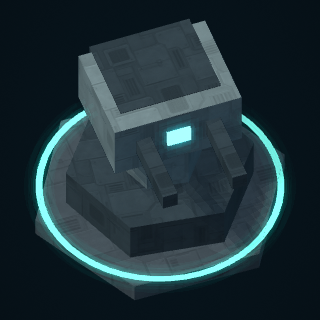
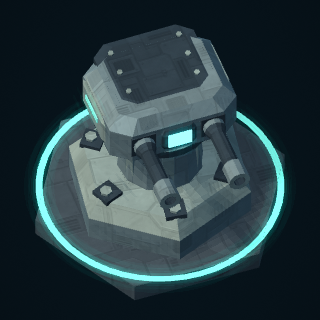
feat: detail Free Marches sentinel turret

Changed region(s): [[0.1875, 0.0625, 0.7812, 0.8125], [0.375, 0.0938, 0.4688, 0.125]]

diff --git a/src/renderer/geometry.js b/src/renderer/geometry.js
@@ -221,6 +221,82 @@
         }
         return out;
       },
+      // Sentinel: fixed hexagonal pedestal and independently aimed twin-gun assembly.
+      // Baked once; relative metal tints preserve team/ghost/construction rendering.
+      turretAssembly() {
+        const turretBase = [], turretHead = [], box = this.box(),
+          metal = [1, 1, 1], dark = [.38, .43, .49], edge = [1.28, 1.22, 1.13];
+        const part = (out, x, y, z, w, h, d, col, yaw = 0) => {
+          const cs = Math.cos(yaw), sn = Math.sin(yaw);
+          for (let i = 0; i < box.length; i += 27) {
+            const points = [];
+            for (let j = i; j < i + 27; j += 9) {
+              const px = box[j]*w, pz = box[j+2]*d;
+              points.push([x+px*cs+pz*sn, y+box[j+1]*h, z-px*sn+pz*cs]);
+            }
+            this.tri(out, ...points, col);
+          }
+        };
+        const armor = (out, x, y, z, w, h, d, col) => {
+          const rings = [[.82,-.5],[1,-.3],[1,.28],[.82,.5]].map(([s,t]) =>
+            [[-.36,.5],[.36,.5],[.5,.36],[.5,-.36],[.36,-.5],[-.36,-.5],[-.5,-.36],[-.5,.36]]
+              .map(([a,b]) => [x+a*w*s, y+t*h, z+b*d*s]));
+          for (let i = 0; i < 8; i++) {
+            const k = (i+1)%8;
+            for (let j = 0; j < 3; j++) {
+              const tint = col.map(v => v*(j === 2 ? 1.1 : j === 0 ? .75 : 1));
+              this.tri(out, rings[j][i], rings[j][k], rings[j+1][k], tint);
+              this.tri(out, rings[j][i], rings[j+1][k], rings[j+1][i], tint);
+            }
+            this.tri(out, [x,y+h/2,z], rings[3][i], rings[3][k], col);
+            this.tri(out, [x,y-h/2,z], rings[0][k], rings[0][i], dark);
+          }
+        };
+        // Profile can turn inward at a muzzle: annular lip, inner bore and recessed end.
+        const profile = (out, n, levels, colors, x = 0, y = 0, z = 0, barrel = false) => {
+          const point = (i, j) => {
+            const a = i/n*Math.PI*2, [r,h] = levels[j], px = Math.sin(a)*r, pz = Math.cos(a)*r;
+            return barrel ? [x+px,y-pz,z+h] : [x+px,y+h,z+pz];
+          };
+          for (let i = 0; i < n; i++) {
+            for (let j = 0; j < levels.length-1; j++) {
+              const a = point(i,j), b = point(i+1,j), c = point(i+1,j+1), d = point(i,j+1);
+              this.tri(out, a,b,c,colors[j]); this.tri(out, a,c,d,colors[j]);
+            }
+            const last = levels.length-1,
+              center = j => barrel ? [x,y,z+levels[j][1]] : [x,y+levels[j][1],z];
+            this.tri(out, center(0),point(i+1,0),point(i,0),dark);
+            this.tri(out, center(last),point(i,last),point(i+1,last),colors.at(-1));
+          }
+        };
+        profile(turretBase, 6, [[1.22,.15],[1.35,.26],[1.35,.70],[1.16,.95]], [dark,metal,edge]);
+        profile(turretBase, 12, [[.57,.78],[.62,.92],[.53,1.88],[.57,2.04]], [dark,metal,edge]);
+        profile(turretBase, 24, [[.67,1.77],[.75,1.83],[.75,1.96],[.66,2.05]], [dark,dark,edge]);
+        for (let i = 0; i < 6; i++) {
+          const a = i/6*Math.PI*2, x = Math.sin(a), z = Math.cos(a);
+          part(turretBase, x*.49,1.33,z*.49,.16,.93,.19,edge,a);
+          profile(turretBase, 6, [[.09,1.015],[.09,1.06]], [edge],x*1.02,0,z*1.02);
+          part(turretBase, x*.99,.97,z*.99,.30,.08,.30,dark,a);
+        }
+        armor(turretHead, 0,2.28,0,1.9,.9,1.5,metal);
+        armor(turretHead, 0,2.65,-.2,1.5,.18,1.3,dark);
+        for (const side of [-1,1]) {
+          armor(turretHead, side*.80,2.26,-.10,.36,.60,1.05,edge);
+          profile(turretHead, 12,
+            [[.11,.35],[.16,.50],[.16,.85],[.115,.95],[.115,1.52],[.16,1.56],[.16,1.85],[.085,1.85],[.085,1.65]],
+            [metal,metal,dark,dark,metal,metal,edge,dark,dark], side*.52,2.3,0,true);
+          for (let j = 0; j < 3; j++) {
+            part(turretHead, side*.52,2.3,.53+j*.11,.36,.36,.035,dark);
+            profile(turretHead, 6, [[.045,2.741],[.045,2.77]], [edge],side*.51,0,-.62+j*.37);
+          }
+        }
+        part(turretHead, 0,2.28,-.755,1.1,.37,.035,dark);
+        for (let i = -3; i <= 3; i++)
+          part(turretHead, i*.14,2.28,-.783,.035,.30,.025,edge);
+        // Recessed sensor socket; cyan optics and identification marks remain separate.
+        armor(turretHead, 0,2.3,.72,.52,.40,.20,dark);
+        return { turretBase, turretHead };
+      },
       // Free Marches command-center armor, baked at its existing world dimensions.
       // Vertex tints multiply the faction metal (also preserving preview/ghost tinting).
       commandHull() {

diff --git a/src/world-view.js b/src/world-view.js
@@ -371,18 +371,19 @@ class BattlefieldView {
             p('box', 0.1, 4.35, -1.3, 0.055, 1.15, 0.055, metal);
           }
         } else if (e.type === 'turret') {
-          p('hex', 0, 0.55, 0, 1.35, 0.8, 1.35, dark);
-          p('hex', 0, 1.4, 0, 0.6, 1.4, 0.6, metal);
+          p('turretBase', 0, 0, 0, 1, 1, 1, metal);
           // Keep the aiming head independent of the fixed foundation orientation.
           const aim = (e.rot || 0) - rot,
             ac = Math.cos(aim),
             as = Math.sin(aim);
           const head = (x, y, z, sx, sy, sz, c, glow = 0) =>
             p('box', x * ac + z * as, y, -x * as + z * ac, sx, sy, sz, c, aim, 0, 0, glow);
-          head(0, 2.28, 0, 1.9, 0.9, 1.5, metal);
-          head(0, 2.65, -0.2, 1.5, 0.18, 1.3, dark);
-          for (let s of [-1, 1]) head(s * 0.52, 2.3, 1.0, 0.22, 0.25, 1.7, dark);
-          head(0, 2.3, 0.77, 0.35, 0.25, 0.06, team, 1.2);
+          p('turretHead', 0, 0, 0, 1, 1, 1, metal, aim);
+          head(0, 2.3, 0.827, 0.35, 0.25, 0.025, team, 1.2);
+          for (const side of [-1, 1]) {
+            head(side * .985, 2.32, -.10, .025, .085, .48, team, .35);
+            head(side * .80, 2.568, -.1, .12, .025, .36, accent);
+          }
         }
         if (build < 1) {
           for (let i = 0; i < 4; i++) {

diff --git a/src/renderer/runtime.js b/src/renderer/runtime.js
@@ -54,7 +54,8 @@
           aetherVent: geom.aetherVent(),
           commandHull: geom.commandHull(),
           workerHull: geom.workerHull(),
-          workerDrill: geom.workerDrill()
+          workerDrill: geom.workerDrill(),
+          ...geom.turretAssembly()
         }))
           this.geometry(n, d);
         this.fogTex = gl.createTexture();

diff --git a/docs/rendering.md b/docs/rendering.md
@@ -9,6 +9,7 @@
 - Skybox: nicht wiederholt, seitenverhältnistreuer Cover-Shader, Clamp-to-edge, dunkler Ersatz bis zum asynchronen Upload. Kein Server als Ausweichlösung für fehlgeschlagene `file://`-Uploads.
 - Metall/Bio verwenden skalierte Mesh-Lokalkoordinaten und lokale Textur-Normalen. Muster folgen Translation/Drehung; echte Skalierung erhält die Detaildichte. Bezug pro Mesh-Teil, keine garantierte Nahtlosigkeit zwischen Teilen. Boden und Felsen bleiben weltprojiziert.
 - Fels- und Kristallgeometrie sind deterministisch variiert. Kosmetische Modelländerungen nicht mit Hindernisradien, Ressourcenmengen oder Terrain-Platzierung vermischen.
+- **Free-Marches-Sentinel:** abgeschrägter Sechskantsockel mit sechs befestigten Ankerplatten, verstärktem Pfeiler und Drehkranz; gepanzerter Kopf mit Dachschrauben, rückwärtigem Kühlgitter, seitlichen Kennstreifen und zwei gerippten Läufen mit vertieften Mündungen. `geom.turretAssembly()` erzeugt einmalig `turretBase` (624 Dreiecke) und `turretHead` (1.064); der Sockel folgt weiterhin der Gebäudeausrichtung, der gesamte Kopf unabhängig davon dem vorhandenen Zielwinkel. Team-/Vorschaufarben, Baufortschritt, Fundament und Spielgröße/-werte bleiben erhalten. Keine neue Animation, Shader oder RNG-Aufrufe. `preview-sentinel-turret.png` wurde passend manuell erneuert; andere Porträts unverändert. Alle Qualitätsstufen verwenden dieselben Meshes; reale Mobil-GPU-Kosten noch nicht gemessen.
 - **Free-Marches-Worker (Prospector):** kompaktes ockerfarbenes Kettenfahrzeug mit abgeschrägtem Gehäuse/Sensorkopf, Kühler, je drei Laufrollen und 24 Kettengliedern, Scheinwerfern und eingefasstem Signallicht. `geom.workerHull()` bündelt das Fahrgestell in 1.452 Dreiecken; `geom.workerDrill()` ergänzt einen geriffelten Bohrkopf mit 120 Dreiecken. Beide Meshes werden einmal hochgeladen und instanziert. Team-/Vorschaufarben, Ausrichtung und vorhandene Frachtanzeige bleiben erhalten; keine neue Bewegungsanimation, kein RNG und keine Änderungen an Größe, Tempo, Sammeln oder anderen Fraktionen. Tatsächliche Kosten vieler Worker auf Mobil-GPUs noch nicht gemessen.
 - **Free-Marches-HQ:** `geom.commandHull()` bündelt abgeschrägte Rumpf-/Dachpanzerung, Seitenrippen, Eingangspfeiler und Trittstufe in einem einmalig hochgeladenen Mesh mit 1.152 Dreiecken. Vertextönungen multiplizieren die bestehende Metall-/Vorschaufarbe; Leuchten, Dachmarkierungen, Lüftungsgitter und Antennen ergänzen die Hülle als instanzierte Grundformen. Fundament, Teamfarben, Gebäudeausrichtung, Baufortschrittsdarstellung und Spielradien bleiben erhalten; andere Gebäude/Fraktionen unverändert. Keine neuen Texturen, Shader oder RNG-Aufrufe.
 - **Aether Vent:** flache achteckige Panzerplattform mit abgeschrägten Kanten, 16 Sockelsegmenten, vier erhöhten Halteklammern und Kristallfassung. `geom.aetherVent()` liefert ein gemeinsames Metallmesh mit 1.152 Dreiecken und vier Vertexfarben; einmal beim Rendererstart hochgeladen, für alle Vents instanziert. Zwei separate cyanfarbene Ringe und der rotierende, richtungsbeleuchtete Kristall ergänzen das Modell. Vorhandene Dampfeffekte bleiben unverändert. Keine neuen Texturen, Shader oder RNG-Aufrufe; Positionen, Ressourcenmengen, Spielradien und Raffineriezugang bleiben erhalten. Alle Qualitätsstufen verwenden dieselbe Geometrie; reale Mobil-GPU-Kosten noch nicht gemessen.

diff --git a/docs/worklog.md b/docs/worklog.md
@@ -2,6 +2,12 @@
 
 Kompakter Übergabestand und letzte Prüfnachweise. Ältere Implementierungs-, Diagnose- und Refactoringprotokolle liegen in Git. Neue Einträge kurz halten; Regeln und offene Prioritäten direkt in den Referenzdokumenten pflegen.
 
+## Detaillierter Free-Marches-Sentinel
+
+- Sechskantsockel mit Ankerplatten/Schrauben, Pfeilerrippen und Drehkranz; abgeschrägter Waffenkopf mit Dachbefestigungen, Kühlgitter, Kennstreifen und gerippten Doppelläufen mit vertieften Mündungen. Zwei einmalig hochgeladene Meshes (624/1.064 Dreiecke); Sockel-/Zielausrichtung, Bau-/Teamdarstellung, Spielwerte und RNG unverändert. Nur zugehöriges Menü-PNG manuell erneuert, keine Bildautomatik eingebaut.
+- **Neu: `npm test` einschließlich Build, 245/245 bestanden** (rund 35 s). Deterministische Meshgrenzen, endliche flache Normalen, nicht degenerierte Flächen/Mündungen, reine gecachte Darstellung, unabhängiger Zielwinkel für beide Teams, Baufortschritt und Vorschau abgesichert. Fixtures unverändert; 82 unbetroffene Einheiten-/Gebäude-/Teamvarianten liefern exakt dieselben Zeichenaufrufe wie zuvor. Diff und lokale Dokumentationslinks geprüft.
+- **Neu: Chromium `file://`**, 1280×800 und 390×844: Nah-/Spielansichten, alle Qualitätsstufen, kontrollierte Bau-/Gegner-/Vorschau- und gedrehte Kopfvarianten sowie erneuertes Menübild gesichtet. GL 0, keine Console-/Laufzeitfehler, durch Zeichnen unveränderte Entität. Kontrollierter Schuss auf seitliches Ziel: korrekte 90°-Ausrichtung und unverändert 28 Schaden. Kein Echtgeräte-/Massenmodell-Leistungs- oder vollständiger neuer Bauablaufnachweis.
+
 ## Modellbilder für alle Free-Marches-Aktionsbuttons
 
 - Nach Prospector/HQ jetzt alle sieben Einheiten und sieben Gebäude mit nahen Ausschnitten ihrer tatsächlichen Spielmodelle: zwölf weitere lokale 320×320-PNGs einmalig aus `renderEntity` erzeugt, die beiden vorhandenen unverändert. Keine automatische Erzeugung eingebaut; bei späteren Modelländerungen Bilder manuell erneuern. Buttonmaße, Namen, Kosten, Badges, Aktiv-/Sperrstatus, andere Fraktionen und Queue-/Kategorie-/Befehlsicons bleiben erhalten. Keine Spielmodell-/Regel-/RNG-Änderungen oder zusätzlichen Laufzeit-WebGL-Pässe.
